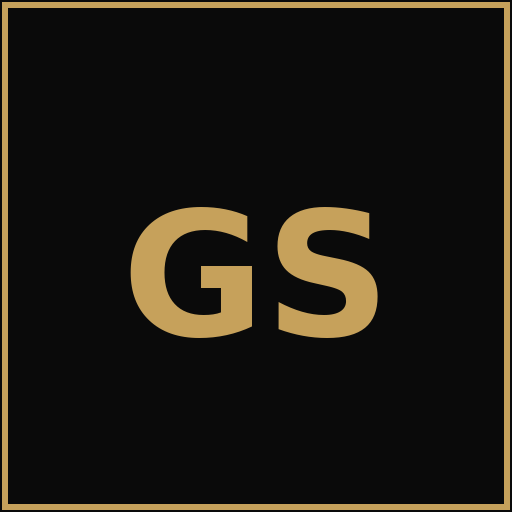
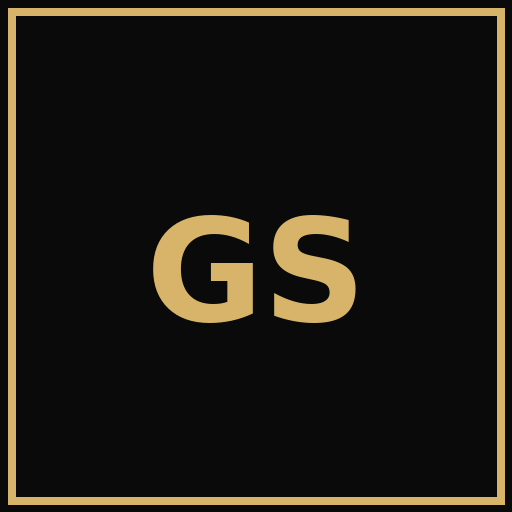
Add files via upload

diff --git a/index.html b/index.html
@@ -1,109 +1,86 @@
 <!doctype html>
 <html lang="en">
 <head>
-  <meta charset="utf-8" />
-  <meta name="viewport" content="width=device-width, initial-scale=1" />
-  <title>Galidjan Studios</title>
-  <meta name="theme-color" content="#0A0A0A" />
-  <link rel="manifest" href="manifest.json" />
-  <link rel="icon" href="assets/icons/icon-192.png" type="image/png" />
-  <style>
-    :root{--bg:#0A0A0A;--panel:#101010;--border:#202020;--fg:#EDEDED;--muted:#9AA0A6;--gold:#C6A15B}
-    *{box-sizing:border-box}html,body{height:100%}
-    body{margin:0;background:var(--bg);color:var(--fg);font-family:system-ui,-apple-system,Segoe UI,Roboto,Ubuntu,Arial}
-    #bg-grid{position:fixed;inset:0;background:
-      radial-gradient(60vw 60vh at 10% -10%, rgba(198,161,91,.12), transparent 60%),
-      radial-gradient(60vw 60vh at 110% 110%, rgba(198,161,91,.08), transparent 60%),
-      linear-gradient(transparent 0, transparent calc(100% - 100px), rgba(198,161,91,.06) 100%);
-      pointer-events:none;z-index:-1;animation:pulse 8s ease-in-out infinite}
-    @keyframes pulse{0%,100%{opacity:.8}50%{opacity:1}}
-    .topbar{position:sticky;top:0;display:flex;align-items:center;justify-content:space-between;gap:12px;
-      padding:14px 18px;background:rgba(10,10,10,.8);backdrop-filter:blur(8px);border-bottom:1px solid var(--border)}
-    .brand{display:flex;align-items:center;gap:12px;font-weight:700;letter-spacing:.3px}
-    .logo{width:30px;height:30px;border:2px solid var(--gold);border-radius:8px;display:inline-grid;place-items:center;font-weight:800;color:var(--gold)}
-    .nav a{color:var(--muted);text-decoration:none;margin:0 6px;padding:8px 10px;border-radius:8px}
-    .nav a.active,.nav a:hover{color:var(--fg);background:#171717}
-    .install{background:var(--gold);color:#0A0A0A;border:0;border-radius:10px;padding:10px 14px;font-weight:800}
-    #app{padding:22px}
-    .card{border:1px solid var(--border);background:var(--panel);border-radius:16px;padding:24px;max-width:1040px;margin:0 auto 22px;
-      box-shadow:0 10px 40px rgba(0,0,0,.35)}
-    .hero{text-align:center}
-    .badge{display:inline-block;border:1px solid var(--gold);color:var(--gold);padding:6px 10px;border-radius:999px;font-size:12px;letter-spacing:.3px;margin-bottom:12px}
-    .lead{color:var(--muted);margin:8px 0 16px}
-    .gold{color:var(--gold)}
-    .grid{display:grid;grid-template-columns:repeat(auto-fit,minmax(220px,1fr));gap:14px;margin-top:12px}
-    .tile{border:1px solid var(--border);background:#0f0f0f;border-radius:12px;padding:16px}
-    .view{display:none}.view.active{display:block}
-    .footer{opacity:.65;text-align:center;padding:18px;border-top:1px solid var(--border)}
-    .fade-in{animation:fade .6s ease both} @keyframes fade{from{opacity:0;transform:translateY(6px)}to{opacity:1;transform:none}}
-  </style>
+<meta charset="utf-8">
+<meta name="viewport" content="width=device-width, initial-scale=1">
+<title>Galidjan Studios • Ultra Lite</title>
+<meta name="theme-color" content="#0A0A0A">
+<link rel="manifest" href="manifest.json">
+<link rel="icon" href="assets/icons/icon-192.png" type="image/png">
+<style>
+:root{--bg:#0A0A0A;--panel:#111;--border:#1f1f1f;--fg:#F2F2F2;--muted:#9aa0a6;--gold:#d7b46a}
+*{box-sizing:border-box}html,body{height:100%}
+body{margin:0;background:radial-gradient(1200px 600px at 10% -10%,rgba(215,180,106,.08),transparent 60%),
+radial-gradient(1200px 600px at 120% 120%,rgba(215,180,106,.06),transparent 60%),#0A0A0A;color:var(--fg);
+font-family:system-ui,-apple-system,Segoe UI,Roboto,Ubuntu,Arial}
+header{position:sticky;top:0;z-index:10;background:rgba(5,5,5,.75);backdrop-filter:blur(10px);
+display:flex;align-items:center;justify-content:space-between;padding:12px 16px;border-bottom:1px solid var(--border)}
+.brand{display:flex;gap:10px;align-items:center}
+.logo{width:30px;height:30px;border-radius:8px;border:2px solid var(--gold);display:grid;place-items:center;color:var(--gold);font-weight:800}
+.nav a{color:var(--muted);text-decoration:none;padding:8px 10px;border-radius:8px}
+.nav a.active,.nav a:hover{color:var(--fg);background:#171717}
+.install{background:var(--gold);color:#0A0A0A;border:0;border-radius:10px;padding:10px 14px;font-weight:800}
+main{padding:22px}
+.card{border:1px solid var(--border);background:linear-gradient(180deg,#111,#0d0d0d);border-radius:16px;padding:24px;max-width:1040px;margin:0 auto 22px;box-shadow:0 10px 40px rgba(0,0,0,.4)}
+.badge{display:inline-block;border:1px solid var(--gold);color:var(--gold);padding:6px 10px;border-radius:999px;font-size:12px;letter-spacing:.3px;margin-bottom:12px}
+h1{font-size:32px;margin:8px 0 14px}
+.lead{color:var(--muted);margin:0 0 18px}
+.grid{display:grid;grid-template-columns:repeat(auto-fit,minmax(220px,1fr));gap:14px;margin-top:12px}
+.tile{border:1px solid var(--border);background:#0f0f0f;border-radius:12px;padding:16px;transition:transform .18s ease, box-shadow .18s ease}
+.tile:hover{transform:translateY(-2px);box-shadow:0 10px 28px rgba(215,180,106,.12)}
+.footer{opacity:.65;text-align:center;padding:18px;border-top:1px solid var(--border)}
+.view{display:none}.view.active{display:block}
+#particles{position:fixed;inset:0;pointer-events:none;z-index:0;opacity:.5}
+main,header{position:relative;z-index:1}
+.fade{animation:fade .5s ease both}@keyframes fade{from{opacity:0;transform:translateY(6px)}to{opacity:1;transform:none}}
+</style>
 </head>
 <body>
-  <div id="bg-grid"></div>
-  <header class="topbar">
-    <div class="brand">
-      <div class="logo">GS</div>
-      <span>Galidjan <strong>Studios</strong></span>
-    </div>
-    <nav class="nav">
-      <a href="#home" data-view="home" class="active">Home</a>
-      <a href="#community" data-view="community">Community</a>
-      <a href="#livestreams" data-view="livestreams">Livestreams</a>
-      <a href="#admin" data-view="admin">Admin</a>
-    </nav>
-    <button id="installBtn" class="install" hidden>Install App</button>
-  </header>
-
-  <main id="app">
-    <section id="view-home" class="view active">
-      <div class="hero card fade-in">
-        <div class="badge">PWA • Installable</div>
-        <h1>Welcome to <span class="gold">Galidjan Studios</span></h1>
-        <p class="lead">A creator hub for filmmakers, writers & storytellers. Install to unlock a full‑screen, app‑like experience.</p>
-        <div class="grid">
-          <div class="tile"><h3>Scripts</h3><p>AI‑assisted outline → draft → polish.</p></div>
-          <div class="tile"><h3>Challenges</h3><p>Run contests, vote, climb leaderboards.</p></div>
-          <div class="tile"><h3>Podcast</h3><p>Record, publish and share episodes.</p></div>
-        </div>
+<canvas id="particles"></canvas>
+<header>
+  <div class="brand"><div class="logo">GS</div><strong>Galidjan Studios</strong></div>
+  <nav class="nav">
+    <a href="#home" data-view="home" class="active">Home</a>
+    <a href="#community" data-view="community">Community</a>
+    <a href="#livestreams" data-view="livestreams">Livestreams</a>
+    <a href="#admin" data-view="admin">Admin</a>
+  </nav>
+  <button id="installBtn" class="install" hidden>Install App</button>
+</header>
+<main>
+  <section id="view-home" class="view active">
+    <div class="card fade">
+      <div class="badge">PWA • Installable</div>
+      <h1>Welcome to <span style="color:var(--gold)">Galidjan Studios</span></h1>
+      <p class="lead">Cinematic gold, smooth animations and real interaction. Install for a full‑screen, app‑like experience.</p>
+      <div class="grid">
+        <div class="tile"><h3>Scripts</h3><p>AI‑assisted idea → outline → draft (demo).</p></div>
+        <div class="tile"><h3>Poster</h3><p>Upload photo → add title → save poster.</p></div>
+        <div class="tile"><h3>Notes</h3><p>Quick notes stored on your device.</p></div>
       </div>
-    </section>
-    <section id="view-community" class="view"><div class="card fade-in"><h2>Community</h2><p>Forums & networking for filmmakers, writers and actors.</p></div></section>
-    <section id="view-livestreams" class="view"><div class="card fade-in"><h2>Livestreams</h2><p>Go live, host Q&A’s, engage your audience in real time.</p></div></section>
-    <section id="view-admin" class="view"><div class="card fade-in"><h2>Admin</h2><p>Moderation tools, analytics and user management (coming soon).</p></div></section>
-  </main>
+    </div>
+  </section>
+  <section id="view-community" class="view"><div class="card fade"><h2>Community</h2><p>Mini‑feed (local demo). Post something and it stays on this device.</p></div></section>
+  <section id="view-livestreams" class="view"><div class="card fade"><h2>Livestreams</h2><p>Go live, host Q&A, engage your audience.</p></div></section>
+  <section id="view-admin" class="view"><div class="card fade"><h2>Admin</h2><p>Moderation tools, analytics and user management (coming soon).</p></div></section>
+</main>
+<footer class="footer">© <span id="year"></span> Galidjan Studios • Ultra Lite v4</footer>
+<script>
+// basic SPA
+const links=[...document.querySelectorAll('.nav [data-view]')], views=[...document.querySelectorAll('.view')];
+function show(id){links.forEach(l=>l.classList.toggle('active',l.dataset.view===id));views.forEach(v=>v.classList.toggle('active',v.id==='view-'+id));}
+links.forEach(a=>a.addEventListener('click',e=>{e.preventDefault();const id=a.dataset.view;show(id);history.replaceState(null,'','#'+id)}));
+show(location.hash.replace('#','')||'home'); document.getElementById('year').textContent=new Date().getFullYear();
 
-  <footer class="footer">© <span id="year"></span> Galidjan Studios</footer>
+// particles
+const c=document.getElementById('particles'),ctx=c.getContext('2d');let w,h;function size(){w=c.width=innerWidth;h=c.height=innerHeight}size();addEventListener('resize',size);
+const P=Array.from({length:80},()=>({x:Math.random()*w,y:Math.random()*h,vx:(Math.random()-.5)*.5,vy:(Math.random()-.5)*.5,r:Math.random()*1.8+0.4}));
+function tick(){ctx.clearRect(0,0,w,h);ctx.fillStyle='rgba(215,180,106,.7)';P.forEach(p=>{p.x+=p.vx;p.y+=p.vy;if(p.x<0||p.x>w)p.vx*=-1;if(p.y<0||p.y>h)p.vy*=-1;ctx.beginPath();ctx.arc(p.x,p.y,p.r,0,Math.PI*2);ctx.fill();});requestAnimationFrame(tick)}tick();
 
-  <script>
-    // SPA nav + footer year
-    const links = document.querySelectorAll('.nav [data-view]');
-    const views = document.querySelectorAll('.view');
-    links.forEach(a => a.addEventListener('click', e => {
-      e.preventDefault();
-      const id = a.getAttribute('data-view');
-      links.forEach(l => l.classList.toggle('active', l===a));
-      views.forEach(v => v.classList.toggle('active', v.id === 'view-'+id));
-      history.replaceState(null, '', '#'+id);
-    }));
-    const start = location.hash.replace('#','') || 'home';
-    document.querySelector(`[data-view="${start}"]`)?.click();
-    document.getElementById('year').textContent = new Date().getFullYear();
+// SW + install
+if('serviceWorker' in navigator){window.addEventListener('load',()=>navigator.serviceWorker.register('service-worker.js'));}
+let deferred; const btn=document.getElementById('installBtn');
+window.addEventListener('beforeinstallprompt',e=>{e.preventDefault();deferred=e;btn.hidden=false}); btn.addEventListener('click',async()=>{deferred?.prompt();await deferred?.userChoice;btn.hidden=true});
 
-    // SW + Install prompt
-    if ('serviceWorker' in navigator) {
-      window.addEventListener('load', () => navigator.serviceWorker.register('service-worker.js'));
-    }
-    let deferredPrompt;
-    const installBtn = document.getElementById('installBtn');
-    window.addEventListener('beforeinstallprompt', (e) => {
-      e.preventDefault(); deferredPrompt = e; installBtn.hidden = false;
-    });
-    installBtn.addEventListener('click', async () => {
-      if (!deferredPrompt) return;
-      deferredPrompt.prompt();
-      await deferredPrompt.userChoice;
-      deferredPrompt = null; installBtn.hidden = true;
-    });
-  </script>
-</body>
-</html>
+</script>
+</body></html>

diff --git a/service-worker.js b/service-worker.js
@@ -1,5 +1,5 @@
-const CACHE='gs-gold-onefile-v1';
+const CACHE='gs-ultra-lite-v4';
 const ASSETS=['./','index.html','manifest.json','assets/icons/icon-192.png','assets/icons/icon-512.png','assets/icons/maskable-512.png'];
-self.addEventListener('install',e=>{e.waitUntil(caches.open(CACHE).then(c=>c.addAll(ASSETS)))});
-self.addEventListener('activate',e=>{e.waitUntil(caches.keys().then(keys=>Promise.all(keys.filter(k=>k!==CACHE).map(k=>caches.delete(k)))))});
+self.addEventListener('install',e=>{self.skipWaiting();e.waitUntil(caches.open(CACHE).then(c=>c.addAll(ASSETS)))});
+self.addEventListener('activate',e=>{e.waitUntil(caches.keys().then(keys=>Promise.all(keys.filter(k=>k!==CACHE).map(k=>caches.delete(k)))));});
 self.addEventListener('fetch',e=>{e.respondWith(caches.match(e.request).then(r=>r||fetch(e.request)))});
